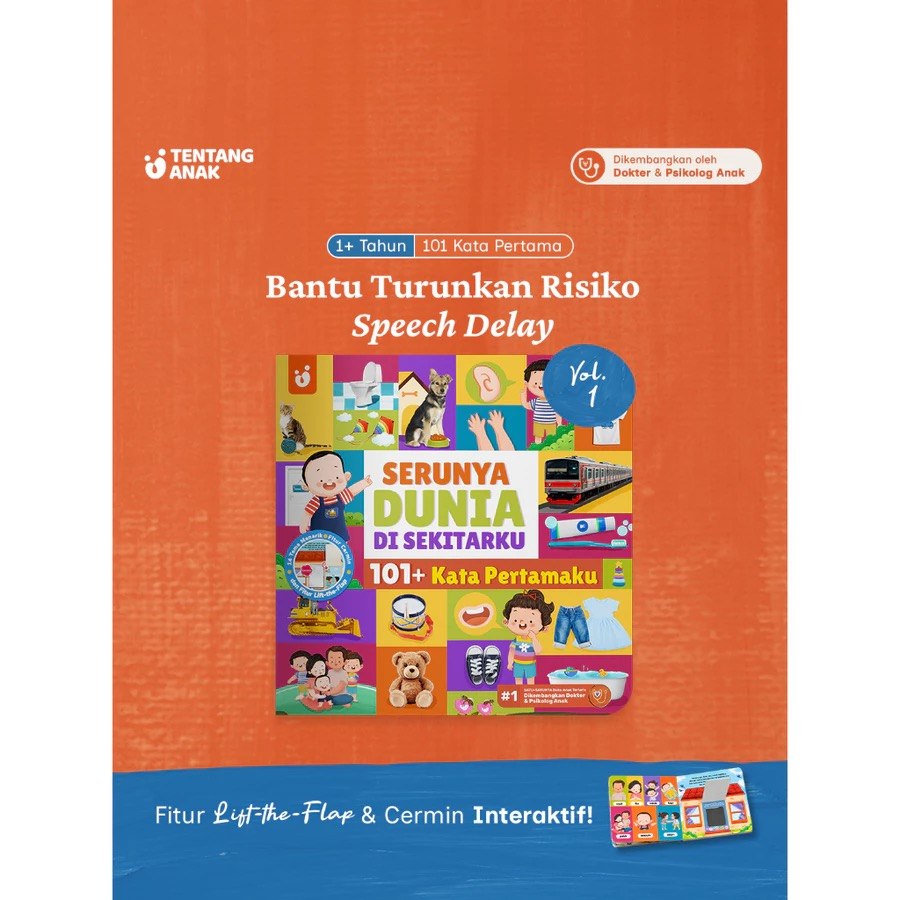
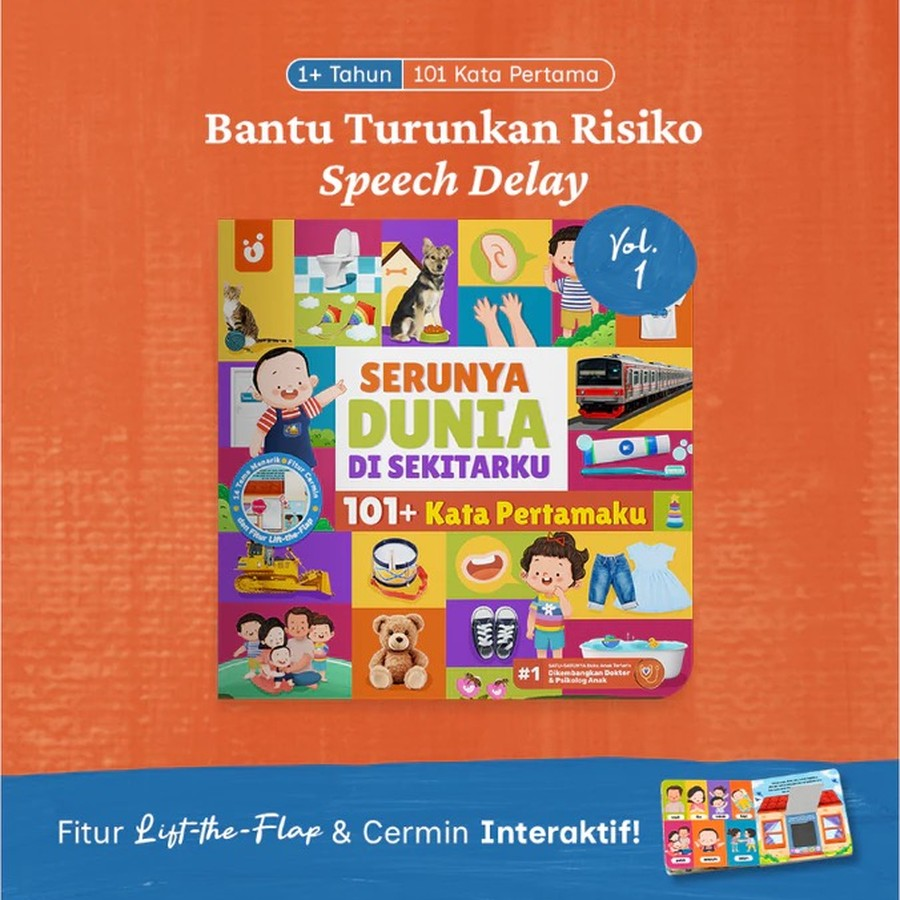
Crop gambar Buku 101 Kata jadi kotak penuh

diff --git a/index.html b/index.html
@@ -80,7 +80,7 @@ const LINKS = [
     desc: "Board book 101+ kata pertama buat si Kecil 1-3 tahun: 14 tema sehari-hari, lift-the-flap + cermin. Bantu stimulasi bicara, dikembangkan bareng dokter & psikolog anak.",
     cta: "Cek di Shopee",
     url: "https://s.shopee.co.id/20x5ogHIk3",
-    img: "img/buku-101-kata.jpg",
+    img: "img/buku-101-kata.jpg?v=2",
     noUtm: true
   },
   {
